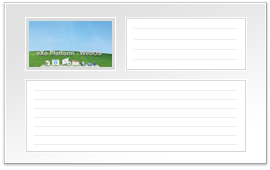
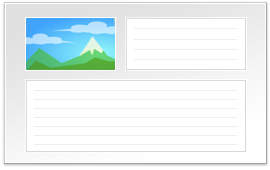
WCM-706: Remove the WebOS image in the predefined page images; WCM-709: In the SCV quickedit popup, move the link to the top; WCM-707: Missing white background in text with icture on head subwebcontent

Changed region(s): [[0.0889, 0.0882, 0.4444, 0.4118]]

diff --git a/portlets/web-presentation/src/main/webapp/skin/SingleContentViewer/DefaultSkin/Stylesheet.css b/portlets/web-presentation/src/main/webapp/skin/SingleContentViewer/DefaultSkin/Stylesheet.css
@@ -267,7 +267,7 @@
 	padding: 0px 10px;
 	height: 36px; line-height: 36px;
 	background: url('background/WizardStepBar.gif') repeat-x bottom;
-	border-top: 1px solid #b7b7b7;
+	border-bottom: 1px solid #b7b7b7;
 }
 
 .UISingleContentViewerPortlet .QuickEditBackButton a {
